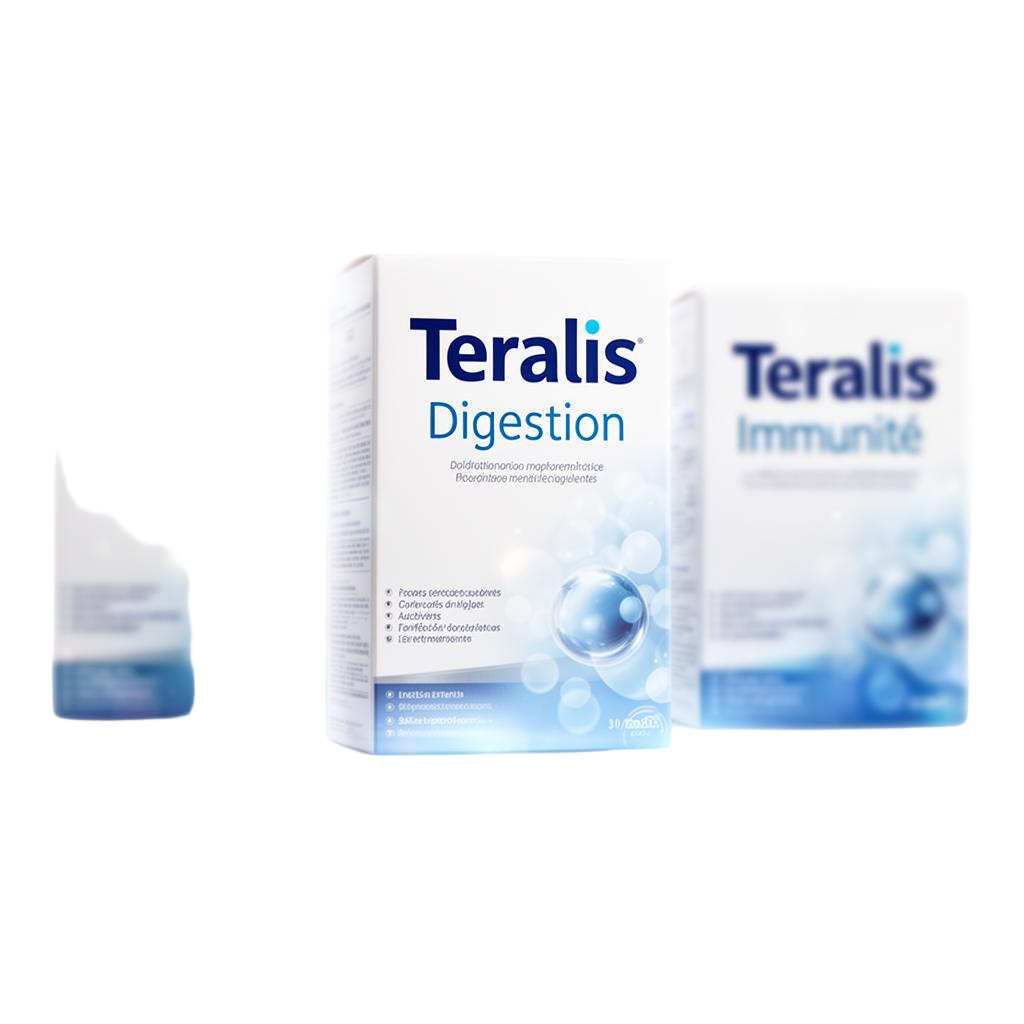
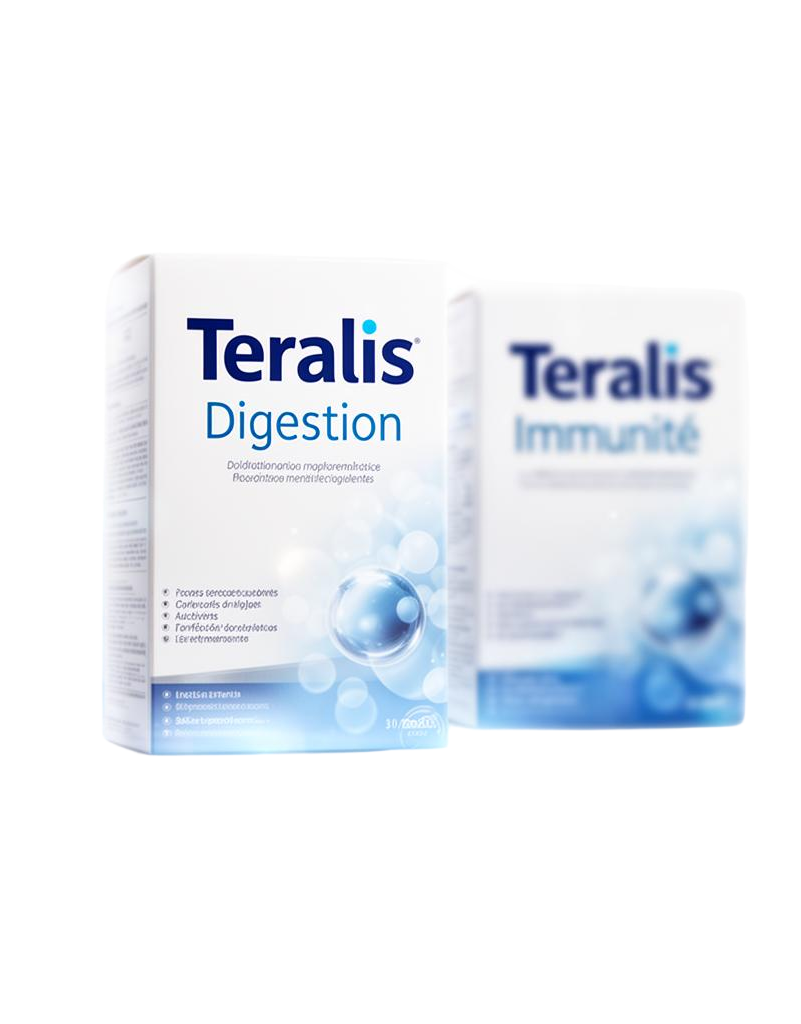
update future-product-image

Changed region(s): [[0.0312, 0.25, 0.9675, 0.75]]

diff --git a/src/components/HeroSection.tsx b/src/components/HeroSection.tsx
@@ -110,10 +110,10 @@ const HeroSection = () => {
             <img
               src={futureProducts}
               alt="Futurs produits Teralis – Vitalité, Digestion, Immunité"
-              className="absolute top-1/2 left-1/2 -translate-x-1/2 -translate-y-[58%] w-[500px] md:w-[600px] lg:w-[700px] opacity-50 blur-[1.5px] scale-125"
+              className="absolute top-1/2 left-1/2 -translate-x-1/2 -translate-y-[58%] w-[500px] md:w-[600px] lg:w-[500px] opacity-50 blur-[1.5px] scale-125"
               loading="lazy"
-              width={1200}
-              height={600}
+              width={800}
+              height={500}
             />
             {/* Main box */}
             <motion.img
